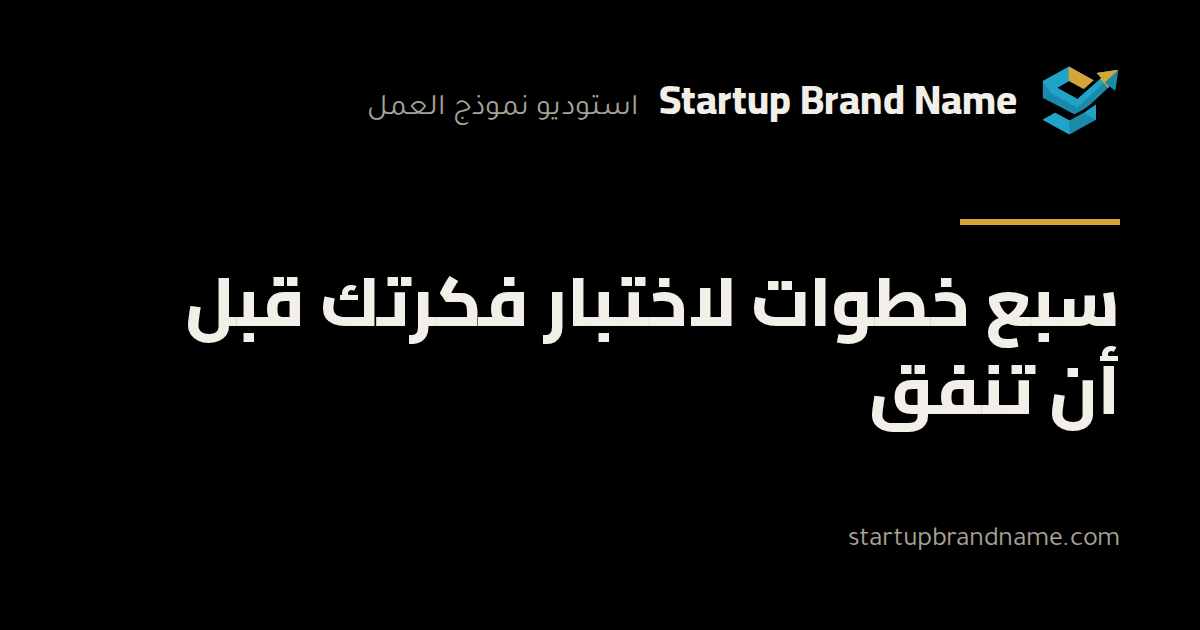
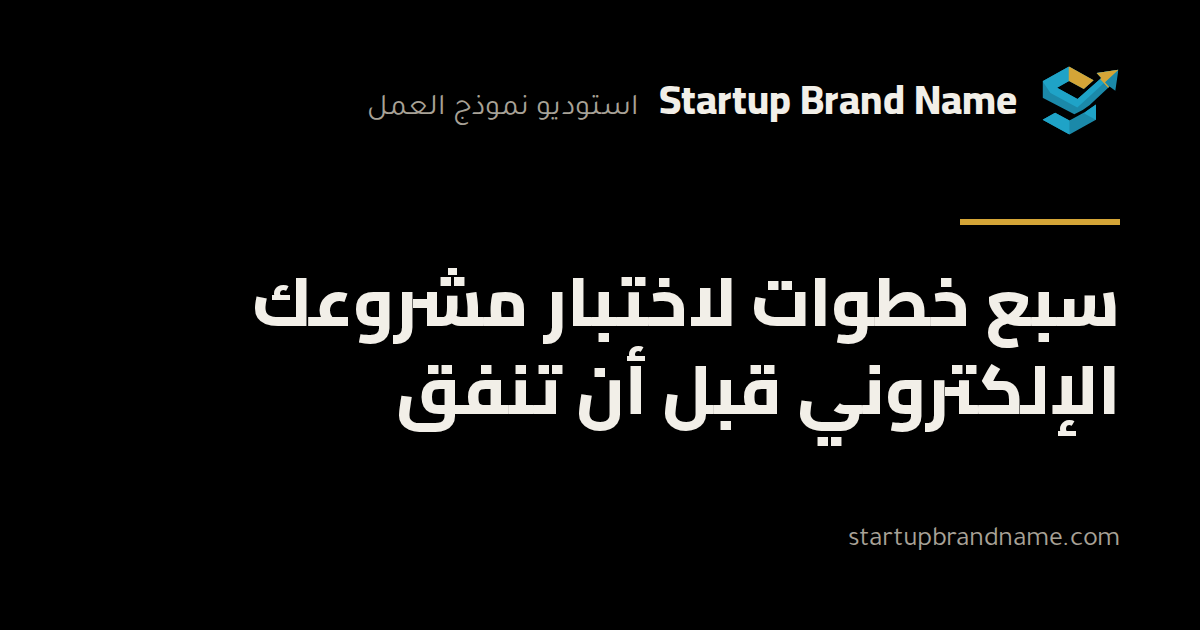
feat(web): narrow the guide to online projects (D-307)
The owner asked that the guide's subject be any online project, not an offline one. Title, lead,
steps, formulas, mistakes, questions, description and share image are rewritten for an online
store, a digital product or app, a subscription or an online service. The worked example is an
online store (payment fee, shipping and returns inside the cost of an order), its arithmetic checked
by a test, and a question says the guide does not cover a project that depends on a physical place.

Changed region(s): [[0.3083, 0.5429, 0.9558, 0.7238], [0.1542, 0.4222, 0.4317, 0.5429]]

diff --git a/apps/web/src/content/idea-guide.ts b/apps/web/src/content/idea-guide.ts
@@ -35,51 +35,54 @@ export interface IdeaGuideContent {
   method: string;
 }
 
-/** Date of the last edit of the guide's text; change it whenever the text changes (D-306). */
+/** Date of the last edit of the guide's text; change it whenever the text changes (D-306, D-307). */
 export const IDEA_GUIDE_UPDATED = '2026-10-25';
 
 /**
- * The public guide «how to test a business idea». General knowledge that any founder can use, with
- * no question wording, rule, weight or threshold of the diagnostic. The example numbers are made
- * up for the explanation and say so, with an explicit currency (CLAUDE.md §3). Arabic is the
- * reference; the English version has the same shape (idea-guide.test.ts).
+ * The public guide «how to test an online business idea». It is written for online projects
+ * (a store, a digital product or app, a subscription, an online service, a marketplace) and says
+ * plainly that it does not cover a project that depends on a physical place (D-307). General
+ * knowledge that any founder can use, with no question wording, rule, weight or threshold of the
+ * diagnostic. The example numbers are made up for the explanation and say so, with an explicit
+ * currency (CLAUDE.md §3). Arabic is the reference; the English version has the same shape
+ * (idea-guide.test.ts).
  */
 export const IDEA_GUIDE: Localized<IdeaGuideContent> = {
   ar: {
-    heading: 'كيف تختبر فكرة مشروعك قبل أن تنفق عليها',
-    lead: 'اختبر ثلاثة أشياء بالترتيب: هل المشكلة حقيقية ويدفع الناس لحلّها، وهل يغطّي السعر تكاليفك، وهل تصل إلى العملاء بتكلفة تتحمّلها. ثم اتخذ قرارًا واضحًا: امضِ أو عدّل أو توقّف. الخطوات السبع أدناه تقودك إلى ذلك دون أن تبني شيئًا بعد.',
+    heading: 'كيف تختبر فكرة مشروعك الإلكتروني قبل أن تنفق عليه',
+    lead: 'اختبر ثلاثة أشياء بالترتيب: هل المشكلة حقيقية ويدفع الناس لحلّها، وهل يغطّي السعر تكاليفك بعد رسوم الدفع والمنصات، وهل تصل إلى العملاء عبر الإنترنت بتكلفة تتحمّلها. ثم اتخذ قرارًا واضحًا: امضِ أو عدّل أو توقّف. الخطوات السبع أدناه لمتجر إلكتروني أو منتج رقمي أو تطبيق أو اشتراك أو خدمة عبر الإنترنت، وتقودك إلى القرار قبل أن تبني شيئًا.',
     updatedLabel: 'آخر تحديث',
     stepsHeading: 'سبع خطوات من الفكرة إلى القرار',
     steps: [
       {
         id: 'sentence',
         title: 'اكتب الفكرة في جملة واحدة',
-        body: 'من هو عميلك؟ ما المشكلة التي يعيشها؟ ما الذي ستقدّمه له؟ وبكم؟ إن لم تستطع قول ذلك في جملة واحدة فالفكرة لم تتحدد بعد، وأي اختبار بعدها سيقيس شيئًا غامضًا.',
+        body: 'من هو عميلك؟ ما المشكلة التي يعيشها؟ ما الذي ستبيعه له عبر الإنترنت؟ وبكم؟ إن لم تستطع قول ذلك في جملة واحدة فالفكرة لم تتحدد بعد، وأي اختبار بعدها سيقيس شيئًا غامضًا.',
       },
       {
         id: 'problem',
         title: 'تحقّق من أن المشكلة حقيقية',
-        body: 'تحدّث مع عملاء محتملين عمّا فعلوه فعلًا في آخر مرة واجهوا فيها المشكلة: كيف حلّوها، وكم دفعوا، وما الذي أزعجهم. سلوكهم السابق أصدق من رأيهم في فكرتك، ومن مجاملة الأصدقاء والأقارب.',
+        body: 'تحدّث مع عملاء محتملين عمّا فعلوه فعلًا في آخر مرة واجهوا فيها المشكلة: كيف بحثوا عن حل، وماذا اشتروا، وكم دفعوا، وما الذي أزعجهم. سلوكهم السابق أصدق من رأيهم في فكرتك، ومن مجاملة الأصدقاء والأقارب.',
       },
       {
         id: 'pay',
         title: 'اختبر الاستعداد للدفع',
-        body: 'قبل أن تبني، اعرض السعر على أشخاص حقيقيين واطلب التزامًا صغيرًا: حجزًا، أو دفعة مقدّمة، أو تسجيلًا بالاسم في قائمة انتظار. عبارة «أعجبتني الفكرة» ليست التزامًا.',
+        body: 'قبل أن تبني المتجر أو المنتج، اعرض الوصف والسعر في صفحة بسيطة واطلب التزامًا صغيرًا: حجزًا، أو دفعة مقدّمة، أو تسجيلًا بالاسم في قائمة انتظار. عدد الزيارات لا يدل على شيء ما لم يتحول جزء منها إلى التزام. وعبارة «أعجبتني الفكرة» ليست التزامًا.',
       },
       {
         id: 'numbers',
         title: 'احسب الاقتصاد على وحدة واحدة',
-        body: 'ابدأ بسعر البيع والتكلفة المتغيرة لكل وحدة، ثم أضف التكاليف الثابتة الشهرية. الفرق بين السعر والتكلفة المتغيرة هو هامش المساهمة (Contribution margin)، وهو ما يغطّي التكاليف الثابتة أولًا ثم يصير ربحًا.',
+        body: 'ابدأ بسعر البيع، ثم اطرح كل ما يُدفع عن كل طلب: تكلفة المنتج أو الخدمة، والشحن إن كان ماديًا، ورسوم بوابة الدفع، وعمولة المنصة التي تبيع عبرها، وتقدير المرتجعات. الباقي هو هامش المساهمة (Contribution margin)، وهو ما يغطّي التكاليف الثابتة الشهرية أولًا، كالاشتراكات والاستضافة والأدوات، ثم يصير ربحًا.',
       },
       {
         id: 'channel',
         title: 'قدّر تكلفة الوصول إلى العميل',
-        body: 'جرّب قناة واحدة بميزانية صغيرة، وقِس تكلفة اكتساب العميل (Customer acquisition cost). إن كان العميل يكلّفك للوصول إليه أكثر مما يتركه لك من هامش على مدى تعامله معك، فالنموذج لا يعمل بهذه القناة ولو نمت المبيعات.',
+        body: 'جرّب قناة واحدة بميزانية صغيرة، كإعلان مدفوع أو محتوى أو بريد، وسجّل ثلاثة أرقام: تكلفة الزيارة، ونسبة الزوار الذين يشترون، وتكلفة اكتساب العميل (Customer acquisition cost) الناتجة عنهما. إن كان العميل يكلّفك للوصول إليه أكثر مما يتركه لك من هامش على مدى تعامله معك، فالنموذج لا يعمل بهذه القناة ولو ازدادت الزيارات.',
       },
       {
         id: 'limits',
         title: 'افحص القيود',
-        body: 'الترخيص والضرائب والمتطلبات القانونية في بلدك، ومواردك الفعلية: كم تملك من مال ووقت قبل أن تحتاج إلى أول دخل؟ تحقّق من المتطلبات عند الجهة الرسمية في بلدك، ولا تعتمد على ما تسمعه.',
+        body: 'التسجيل والترخيص والضرائب على المبيعات عبر الإنترنت في بلدك، وحماية بيانات العملاء، وهل يعمل مزوّد الدفع الذي تريده في بلدك، وشروط المنصة التي تبيع عبرها. وافحص مواردك الفعلية: كم تملك من مال ووقت قبل أن تحتاج إلى أول دخل؟ تحقّق من المتطلبات عند الجهة الرسمية في بلدك، ولا تعتمد على ما تسمعه.',
       },
       {
         id: 'decide',
@@ -88,48 +91,49 @@ export const IDEA_GUIDE: Localized<IdeaGuideContent> = {
       },
     ],
     formulasHeading: 'المعادلتان الأساسيتان',
-    formulasLead: 'يكفي بهما أن تعرف، قبل أي إنفاق، كم وحدة تحتاج أن تبيع كي لا تخسر.',
+    formulasLead: 'يكفي بهما أن تعرف، قبل أي إنفاق، كم طلبًا تحتاج أن تبيع كي لا تخسر.',
     formulas: [
       {
         id: 'margin',
-        name: 'هامش المساهمة للوحدة',
-        formula: 'سعر البيع − التكلفة المتغيرة للوحدة',
+        name: 'هامش المساهمة للطلب',
+        formula: 'سعر البيع − كل ما يُدفع عن الطلب (المنتج، الشحن، رسوم الدفع، المرتجعات)',
       },
       {
         id: 'break-even',
-        name: 'نقطة التعادل (Break-even) بالوحدات',
-        formula: 'التكاليف الثابتة الشهرية ÷ هامش المساهمة للوحدة',
+        name: 'نقطة التعادل (Break-even) بالطلبات',
+        formula: 'التكاليف الثابتة الشهرية ÷ هامش المساهمة للطلب',
       },
     ],
-    exampleHeading: 'مثال توضيحي',
+    exampleHeading: 'مثال توضيحي لمتجر إلكتروني',
     example: [
-      'سعر البيع: 50 دولارًا أمريكيًا (USD) للوحدة.',
-      'التكلفة المتغيرة: 30 دولارًا أمريكيًا (USD) للوحدة، فهامش المساهمة 20 دولارًا أمريكيًا (USD).',
-      'التكاليف الثابتة: 2000 دولار أمريكي (USD) شهريًا، فنقطة التعادل 100 وحدة شهريًا.',
+      'سعر البيع: 50 دولارًا أمريكيًا (USD) للطلب.',
+      'ما يُدفع عن كل طلب: المنتج 20 والشحن 6 ورسوم الدفع 2 والمرتجعات 2، فالمجموع 30 دولارًا أمريكيًا (USD).',
+      'هامش المساهمة: 20 دولارًا أمريكيًا (USD) للطلب.',
+      'التكاليف الثابتة: 2000 دولار أمريكي (USD) شهريًا، فنقطة التعادل 100 طلب شهريًا.',
     ],
     exampleNote:
       'الأرقام مختلقة لشرح المعادلة فقط، وليست بيانات عن سوق حقيقي. وهذه نقطة تعادل قبل تكلفة الوصول إلى العملاء وقبل الضرائب، فهي حدٌّ أدنى لا يكفي وحده للحكم.',
-    mistakesHeading: 'أخطاء شائعة في اختبار الأفكار',
+    mistakesHeading: 'أخطاء شائعة في اختبار المشاريع الإلكترونية',
     mistakes: [
       {
-        title: 'الاكتفاء برأي الأصدقاء والعائلة',
-        body: 'يجاملونك غالبًا، ولا يدفعون. اسأل من يملك المشكلة فعلًا.',
+        title: 'الخلط بين الزيارات والعملاء',
+        body: 'آلاف الزيارات بلا شراء لا تعني طلبًا. قِس نسبة من يشتري، لا عدد من يزور.',
       },
       {
-        title: 'خلط الإيراد بالربح',
-        body: 'المبيعات الكبيرة لا تعني ربحًا إن كانت التكلفة المتغيرة وتكلفة الوصول إلى العملاء تأكل الهامش.',
+        title: 'تجاهل رسوم الدفع والمنصات والمرتجعات',
+        body: 'تبدو صغيرة في كل طلب، لكنها تأكل جزءًا من الهامش الذي بنيت عليه حساباتك.',
       },
       {
         title: 'نسيان التكاليف الثابتة',
-        body: 'الإيجار والرواتب والاشتراكات تُدفع ولو لم تبع شيئًا. احسبها قبل أن تعد بالربح.',
+        body: 'اشتراكات المنصات والاستضافة والأدوات تُدفع ولو لم تبع شيئًا. احسبها قبل أن تعد بالربح.',
       },
       {
-        title: 'التسعير بلا معرفة تكلفة الوحدة',
-        body: 'سعر يبدو منافسًا قد يكون أقل من تكلفتك الفعلية.',
+        title: 'افتراض أن العميل سيجدك وحده',
+        body: 'قل أين سيجدك العميل الأول وكم سيكلّفك ذلك، لا أن المشروع «سينتشر».',
       },
       {
-        title: 'افتراض النمو بلا قناة',
-        body: 'قل أين سيجدك العميل الأول وكم سيكلّفك، لا أنه «سينتشر».',
+        title: 'إهمال بقاء العميل في الاشتراكات',
+        body: 'في الاشتراك لا يكفي أن يشترك العميل مرة. احسب كم شهرًا سيبقى، فبه يتحدد ما تكسبه منه.',
       },
     ],
     toolHeading: 'أين تساعدك المنصة، وأين لا',
@@ -144,8 +148,14 @@ export const IDEA_GUIDE: Localized<IdeaGuideContent> = {
       'الحديث مع عملاء حقيقيين (الخطوتان 2 و3): المنصة تحسب من إجاباتك ولا تختبر السوق نيابةً عنك.',
       'الاستشارة القانونية أو المالية أو الضريبية؛ هي أداة تخطيط.',
     ],
-    faqHeading: 'أسئلة شائعة عن اختبار الأفكار',
+    faqHeading: 'أسئلة شائعة عن اختبار المشاريع الإلكترونية',
     faq: [
+      {
+        id: 'offline',
+        question: 'هل ينطبق الدليل على مشروع يعتمد على مكان فعلي؟',
+        answer:
+          'الدليل مكتوب للمشاريع الإلكترونية. أفكاره العامة، كالتحقق من المشكلة والاستعداد للدفع ونقطة التعادل، تصلح لأي مشروع، لكن حسابات المحل والإيجار وموقع الزبائن تختلف ولا يغطيها هذا الدليل.',
+      },
       {
         id: 'plan',
         question: 'ما الفرق بين اختبار فكرة وكتابة خطة عمل؟',
@@ -176,40 +186,40 @@ export const IDEA_GUIDE: Localized<IdeaGuideContent> = {
     method: 'كيف نصل إلى الحكم',
   },
   en: {
-    heading: 'How to test a business idea before you spend on it',
-    lead: 'Test three things in order: is the problem real and do people pay to solve it, does the price cover your costs, and can you reach customers at a cost you can bear. Then make a clear decision: go, revise or stop. The seven steps below get you there before you build anything.',
+    heading: 'How to test an online business idea before you spend on it',
+    lead: 'Test three things in order: is the problem real and do people pay to solve it, does the price cover your costs after payment and platform fees, and can you reach customers online at a cost you can bear. Then make a clear decision: go, revise or stop. The seven steps below are for an online store, a digital product or app, a subscription or an online service, and get you to the decision before you build anything.',
     updatedLabel: 'Last updated',
     stepsHeading: 'Seven steps from idea to decision',
     steps: [
       {
         id: 'sentence',
         title: 'Write the idea in one sentence',
-        body: 'Who is your customer? What problem do they have? What will you offer them? At what price? If you cannot say it in one sentence the idea is not defined yet, and any test after this measures something vague.',
+        body: 'Who is your customer? What problem do they have? What will you sell them online? At what price? If you cannot say it in one sentence the idea is not defined yet, and any test after this measures something vague.',
       },
       {
         id: 'problem',
         title: 'Check that the problem is real',
-        body: 'Talk to likely customers about what they actually did the last time they met the problem: how they solved it, what they paid, what annoyed them. Their past behaviour is more honest than their opinion of your idea, or the politeness of friends and family.',
+        body: 'Talk to likely customers about what they actually did the last time they met the problem: how they looked for a solution, what they bought, what they paid, what annoyed them. Their past behaviour is more honest than their opinion of your idea, or the politeness of friends and family.',
       },
       {
         id: 'pay',
         title: 'Test the willingness to pay',
-        body: 'Before you build, show the price to real people and ask for a small commitment: a booking, a deposit, or a named place on a waiting list. “I like the idea” is not a commitment.',
+        body: 'Before you build the store or the product, show the description and the price on a simple page and ask for a small commitment: a booking, a deposit, or a named place on a waiting list. A count of visits tells you nothing until some of them turn into a commitment. And “I like the idea” is not a commitment.',
       },
       {
         id: 'numbers',
-        title: 'Work out the economics of one unit',
-        body: 'Start with the selling price and the variable cost of one unit, then add the monthly fixed costs. The gap between the price and the variable cost is the contribution margin: it covers the fixed costs first and only then becomes profit.',
+        title: 'Work out the economics of one order',
+        body: 'Start with the selling price, then subtract everything paid for each order: the cost of the product or service, shipping if it is physical, the payment gateway fee, the commission of the platform you sell through, and an allowance for returns. What is left is the contribution margin: it covers the monthly fixed costs first, such as subscriptions, hosting and tools, and only then becomes profit.',
       },
       {
         id: 'channel',
         title: 'Estimate the cost of reaching a customer',
-        body: 'Try one channel with a small budget and measure the customer acquisition cost. If reaching a customer costs more than the margin that customer leaves you over the time they stay, the model does not work through that channel, even if sales grow.',
+        body: 'Try one channel with a small budget, such as a paid ad, content or email, and record three numbers: the cost of a visit, the share of visitors who buy, and the customer acquisition cost that follows from them. If reaching a customer costs more than the margin that customer leaves you over the time they stay, the model does not work through that channel, even if visits grow.',
       },
       {
         id: 'limits',
         title: 'Check the constraints',
-        body: 'Licences, taxes and legal requirements in your country, and your real resources: how much money and time do you have before you need the first income? Confirm the requirements with the official authority in your country; do not rely on what you hear.',
+        body: 'Registration, licences and taxes on online sales in your country, the protection of customer data, whether the payment provider you want works in your country, and the rules of the platform you sell through. Then check your real resources: how much money and time do you have before you need the first income? Confirm the requirements with the official authority in your country; do not rely on what you hear.',
       },
       {
         id: 'decide',
@@ -219,48 +229,50 @@ export const IDEA_GUIDE: Localized<IdeaGuideContent> = {
     ],
     formulasHeading: 'The two basic formulas',
     formulasLead:
-      'With them you know, before spending anything, how many units you must sell not to lose money.',
+      'With them you know, before spending anything, how many orders you must sell not to lose money.',
     formulas: [
       {
         id: 'margin',
-        name: 'Contribution margin per unit',
-        formula: 'Selling price − variable cost per unit',
+        name: 'Contribution margin per order',
+        formula:
+          'Selling price − everything paid for the order (product, shipping, payment fee, returns)',
       },
       {
         id: 'break-even',
-        name: 'Break-even point in units',
-        formula: 'Monthly fixed costs ÷ contribution margin per unit',
+        name: 'Break-even point in orders',
+        formula: 'Monthly fixed costs ÷ contribution margin per order',
       },
     ],
-    exampleHeading: 'A worked example',
+    exampleHeading: 'A worked example for an online store',
     example: [
-      'Selling price: 50 US dollars (USD) per unit.',
-      'Variable cost: 30 US dollars (USD) per unit, so the contribution margin is 20 US dollars (USD).',
-      'Fixed costs: 2000 US dollars (USD) a month, so the break-even point is 100 units a month.',
+      'Selling price: 50 US dollars (USD) per order.',
+      'Paid for each order: product 20, shipping 6, payment fee 2 and returns 2, so the total is 30 US dollars (USD).',
+      'Contribution margin: 20 US dollars (USD) per order.',
+      'Fixed costs: 2000 US dollars (USD) a month, so the break-even point is 100 orders a month.',
     ],
     exampleNote:
       'The numbers are made up to explain the formula; they are not data about a real market. This break-even is before the cost of reaching customers and before tax, so it is a floor that is not enough on its own to decide.',
-    mistakesHeading: 'Common mistakes when testing an idea',
+    mistakesHeading: 'Common mistakes when testing an online business',
     mistakes: [
       {
-        title: 'Relying on friends and family',
-        body: 'They are usually polite, and they do not pay. Ask the people who really have the problem.',
+        title: 'Mixing visits with customers',
+        body: 'Thousands of visits with no purchase are not demand. Measure the share who buy, not the number who visit.',
       },
       {
-        title: 'Mixing revenue with profit',
-        body: 'Large sales do not mean profit if variable cost and the cost of reaching customers eat the margin.',
+        title: 'Ignoring payment, platform and return costs',
+        body: 'They look small on each order, but they eat into the margin your calculations rest on.',
       },
       {
         title: 'Forgetting fixed costs',
-        body: 'Rent, salaries and subscriptions are paid even if you sell nothing. Count them before you promise a profit.',
+        body: 'Platform subscriptions, hosting and tools are paid even if you sell nothing. Count them before you promise a profit.',
       },
       {
-        title: 'Pricing without knowing the unit cost',
-        body: 'A price that looks competitive can be below your real cost.',
+        title: 'Assuming customers will find you on their own',
+        body: 'Say where the first customer will find you and what it will cost, not that the project will “go viral”.',
       },
       {
-        title: 'Assuming growth without a channel',
-        body: 'Say where the first customer will find you and what it will cost, not that it will “go viral”.',
+        title: 'Neglecting how long subscribers stay',
+        body: 'With a subscription it is not enough that a customer signs up once. Work out how many months they stay: that decides what you earn from them.',
       },
     ],
     toolHeading: 'Where the platform helps, and where it does not',
@@ -275,8 +287,14 @@ export const IDEA_GUIDE: Localized<IdeaGuideContent> = {
       'Talking to real customers (steps 2 and 3): the platform calculates from your answers and does not test the market for you.',
       'Legal, financial or tax advice; it is a planning tool.',
     ],
-    faqHeading: 'Common questions about testing ideas',
+    faqHeading: 'Common questions about testing online businesses',
     faq: [
+      {
+        id: 'offline',
+        question: 'Does the guide apply to a project that depends on a physical place?',
+        answer:
+          'The guide is written for online projects. Its general ideas, such as checking the problem, the willingness to pay and the break-even point, suit any project, but the sums for a shop, its rent and where its customers are differ and are not covered here.',
+      },
       {
         id: 'plan',
         question: 'What is the difference between testing an idea and writing a business plan?',

diff --git a/apps/web/src/content/pages.ts b/apps/web/src/content/pages.ts
@@ -41,10 +41,10 @@ export const PAGE_META: Localized<Record<PublicPageId, PageMeta>> = {
       card: 'عشرون سؤالًا يبدأ بها تشخيص فكرتك',
     },
     ideaGuide: {
-      title: 'كيف تختبر فكرة مشروعك قبل أن تنفق عليها',
+      title: 'كيف تختبر فكرة مشروعك الإلكتروني قبل أن تنفق عليه',
       description:
-        'دليل عملي من سبع خطوات لاختبار الفكرة: المشكلة، والاستعداد للدفع، والأرقام، وتكلفة الوصول إلى العميل، ثم قرار امضِ أو عدّل أو توقّف.',
-      card: 'سبع خطوات لاختبار فكرتك قبل أن تنفق',
+        'دليل عملي من سبع خطوات لاختبار فكرة متجر إلكتروني أو منتج رقمي أو اشتراك: المشكلة، والاستعداد للدفع، والأرقام، وتكلفة الوصول، ثم قرار امضِ أو عدّل أو توقّف.',
+      card: 'سبع خطوات لاختبار مشروعك الإلكتروني قبل أن تنفق',
     },
     glossary: {
       title: 'مسرد مصطلحات نموذج العمل',
@@ -103,10 +103,10 @@ export const PAGE_META: Localized<Record<PublicPageId, PageMeta>> = {
       card: 'Twenty questions to start diagnosing your idea',
     },
     ideaGuide: {
-      title: 'How to test a business idea before you spend on it',
+      title: 'How to test an online business idea before you spend on it',
       description:
-        'A seven-step guide to testing a business idea: the problem, willingness to pay, the numbers, the cost of reaching customers, then a go, revise or stop decision.',
-      card: 'Seven steps to test your idea before you spend',
+        'Seven steps to test an online store, digital product or subscription idea: the problem, willingness to pay, the numbers, customer cost, then go, revise or stop.',
+      card: 'Seven steps to test your online business before you spend',
     },
     glossary: {
       title: 'Business model glossary',

diff --git a/apps/web/src/content/idea-guide.test.ts b/apps/web/src/content/idea-guide.test.ts
@@ -30,9 +30,11 @@ describe('idea guide', () => {
     const numbers = (locale: 'ar' | 'en') =>
       IDEA_GUIDE[locale].example.flatMap((line) => line.match(/\d+/g) ?? []).map(Number);
     expect(numbers('ar')).toEqual(numbers('en'));
-    const [price = 0, cost = 0, margin = 0, fixed = 0, units = 0] = numbers('en');
-    expect(price - cost).toBe(margin);
-    expect(fixed / margin).toBe(units);
+    const [price = 0, product = 0, shipping = 0, fee = 0, returns = 0, paid = 0] = numbers('en');
+    const [margin = 0, fixed = 0, orders = 0] = numbers('en').slice(6);
+    expect(product + shipping + fee + returns).toBe(paid);
+    expect(price - paid).toBe(margin);
+    expect(fixed / margin).toBe(orders);
   });
 
   it('names a currency in every line of the example (CLAUDE.md §3)', () => {

diff --git a/docs/DECISIONS.md b/docs/DECISIONS.md
@@ -53,7 +53,7 @@ A decision may sit under several topics. A new decision joins its topics in the 
 - **Design and accessibility:** D-007, D-008, D-049 to D-053, D-055 to D-058, D-099, D-118, D-128,
   D-131, D-158, D-159, D-161, D-162, D-170, D-231, D-249, D-250, D-289.
 - **Public site and SEO:** D-027, D-054, D-076, D-090 to D-098, D-100, D-101, D-153, D-291, D-293 to
-  D-295, D-303 to D-306.
+  D-295, D-303 to D-307.
 - **Performance:** D-054, D-150, D-151, D-167 to D-171, D-250, D-254.
 - **CI and repository:** D-001 to D-007, D-012 to D-016, D-020, D-023 to D-025, D-028, D-030 to
   D-033, D-039 to D-041, D-048, D-055, D-083, D-097, D-125, D-127, D-134, D-136, D-139 to D-142,
@@ -2844,4 +2844,23 @@ audience, input_hash, engine_version, pdf_path, pdf_bytes)` is security definer 
   targets «how do I test my idea before launching», shows the product's honest method, and sends the
   reader to the free diagnostic, without giving away the part that makes the platform different
   (D-303, D-304).
+- **Status:** Active (its scope is narrowed by D-307)
+
+### D-307 (2026-10-25): The guide is about online projects only
+
+- **Decision:** The owner asked that the guide's subject be any online project, not an offline one.
+  The guide (title, lead, steps, formulas, the worked example, mistakes, questions, share image and
+  description) is rewritten for an online store, a digital product or app, a subscription or an
+  online service: the economics of one order include payment-gateway fees, platform commissions,
+  shipping for physical goods and returns; the channel step measures the cost of a visit, the share
+  of visitors who buy and the customer acquisition cost; the constraints step names online-sales
+  rules, data protection and whether a payment provider works in the country; the mistakes name
+  visits mistaken for customers and subscribers' retention. The worked example is an online store
+  with made-up numbers in USD, its arithmetic checked by a test. A plain question says the guide
+  does not cover a project that depends on a physical place. This changes the guide only: the home
+  title and description keep the wide wording of D-305 until the owner says otherwise, and the
+  diagnostic itself is unchanged.
+- **Reason:** A narrow subject is easier for a reader and for an AI answer engine to match with a
+  question («how do I test my online store idea») and lets the guide give concrete numbers instead of
+  general advice. It makes no claim about what the platform can or cannot analyse.
 - **Status:** Active
